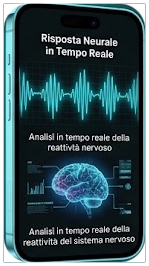
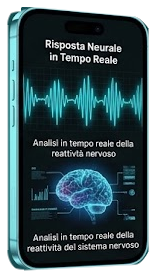
fix(quiz): exact 3D polygon contour cutout for Phone 2 removing slanted background triangle

diff --git a/scripts/cutout-p2-exact.js b/scripts/cutout-p2-exact.js
@@ -1,0 +1,138 @@
+const fs = require('fs');
+const { PNG } = require('pngjs');
+
+const srcPath = 'C:/Users/ACER/.gemini/antigravity/brain/4483d686-847f-4584-b4e1-d2a111f3cca3/.user_uploaded/media_1792779881968_10287e76.png';
+const srcBuf = fs.readFileSync(srcPath);
+const srcPng = PNG.sync.read(srcBuf);
+
+function getPixel(p, x, y) {
+  if (x < 0 || x >= p.width || y < 0 || y >= p.height) return [0, 0, 0, 0];
+  const idx = (p.width * y + x) << 2;
+  return [p.data[idx], p.data[idx + 1], p.data[idx + 2], p.data[idx + 3]];
+}
+
+// Function to calculate exact topY for Phone 2 at given sx
+function getPhone2TopY(x) {
+  if (x < 251) return 999;
+  if (x < 265) {
+    // Corner: from 164 down to 158
+    const t = (x - 251) / 14;
+    return 164 - 6 * Math.sqrt(Math.max(0, 1 - Math.pow(1 - t, 2)));
+  }
+  if (x > 392) return 999;
+  if (x > 375) {
+    // Corner: from 163 up to 175
+    const t = (x - 375) / 17;
+    return 163 + 12 * (t * t);
+  }
+  // Straight top edge slanting from 154 at x=280 to 163 at x=375
+  // Slope = (163 - 154) / (375 - 280) = 9 / 95 = 0.0947
+  return 154 + (x - 280) * 0.0947;
+}
+
+// Function to calculate exact botY for Phone 2 at given sx
+function getPhone2BotY(x) {
+  if (x < 251 || x > 392) return -999;
+  if (x < 268) {
+    // Bottom left corner
+    const t = (x - 251) / 17;
+    return 407 + 9 * Math.sqrt(Math.max(0, 1 - Math.pow(1 - t, 2)));
+  }
+  if (x > 378) {
+    // Bottom right corner
+    const t = (x - 378) / 14;
+    return 411 - 13 * (t * t);
+  }
+  // Straight bottom edge slanting from 416 at x=280 to 411 at x=378
+  // Slope = (411 - 416) / (378 - 280) = -5 / 98 = -0.051
+  return 416 - (x - 280) * 0.051;
+}
+
+// Function to calculate exact leftX for Phone 2 at given sy
+function getPhone2LeftX(y) {
+  if (y < 154 || y > 417) return 999;
+  if (y < 172) {
+    const t = (y - 154) / 18;
+    return 265 - 14 * Math.sqrt(Math.max(0, 1 - Math.pow(1 - t, 2)));
+  }
+  if (y > 396) {
+    const t = (417 - y) / 21;
+    return 266 - 15 * Math.sqrt(Math.max(0, 1 - Math.pow(1 - t, 2)));
+  }
+  // Middle left edge (with volume buttons)
+  return 251.5;
+}
+
+// Function to calculate exact rightX for Phone 2 at given sy
+function getPhone2RightX(y) {
+  if (y < 154 || y > 417) return -999;
+  if (y < 175) {
+    const t = (y - 154) / 21;
+    return 377 + 15 * Math.sqrt(Math.max(0, 1 - Math.pow(1 - t, 2)));
+  }
+  if (y > 395) {
+    const t = (417 - y) / 22;
+    return 378 + 14 * Math.sqrt(Math.max(0, 1 - Math.pow(1 - t, 2)));
+  }
+  // Middle right edge
+  return 392;
+}
+
+// Extract Phone 2
+const p2MinX = 250;
+const p2MaxX = 394;
+const p2MinY = 153;
+const p2MaxY = 418;
+
+const p2W = p2MaxX - p2MinX + 1;
+const p2H = p2MaxY - p2MinY + 1;
+const margin = 6;
+const outW = p2W + margin * 2;
+const outH = p2H + margin * 2;
+
+const outPng = new PNG({ width: outW, height: outH });
+outPng.data.fill(0);
+
+let insideCount = 0;
+
+for (let oy = 0; oy < outH; oy++) {
+  const sy = p2MinY + oy - margin;
+  for (let ox = 0; ox < outW; ox++) {
+    const sx = p2MinX + ox - margin;
+
+    const top = getPhone2TopY(sx);
+    const bot = getPhone2BotY(sx);
+    const left = getPhone2LeftX(sy);
+    const right = getPhone2RightX(sy);
+
+    // Compute distance to boundary:
+    const dTop = sy - top;
+    const dBot = bot - sy;
+    const dLeft = sx - left;
+    const dRight = right - sx;
+
+    const minDist = Math.min(dTop, dBot, dLeft, dRight);
+
+    if (minDist < -1.0) {
+      // Outside
+      continue;
+    }
+
+    let alpha = 1.0;
+    if (minDist < 1.0) {
+      // Smooth 2px anti-aliasing
+      alpha = Math.max(0, Math.min(1, (minDist + 1.0) / 2.0));
+    }
+
+    const [r, g, b] = getPixel(srcPng, Math.round(sx), Math.round(sy));
+    const idx = (outW * oy + ox) << 2;
+    outPng.data[idx] = r;
+    outPng.data[idx + 1] = g;
+    outPng.data[idx + 2] = b;
+    outPng.data[idx + 3] = Math.round(255 * alpha);
+    if (alpha > 0.5) insideCount++;
+  }
+}
+
+fs.writeFileSync('assets/feature-phone-2.png', PNG.sync.write(outPng));
+console.log(`Saved Phone 2 with exact 3D chassis contour (${outW}x${outH}), inside count: ${insideCount}`);
